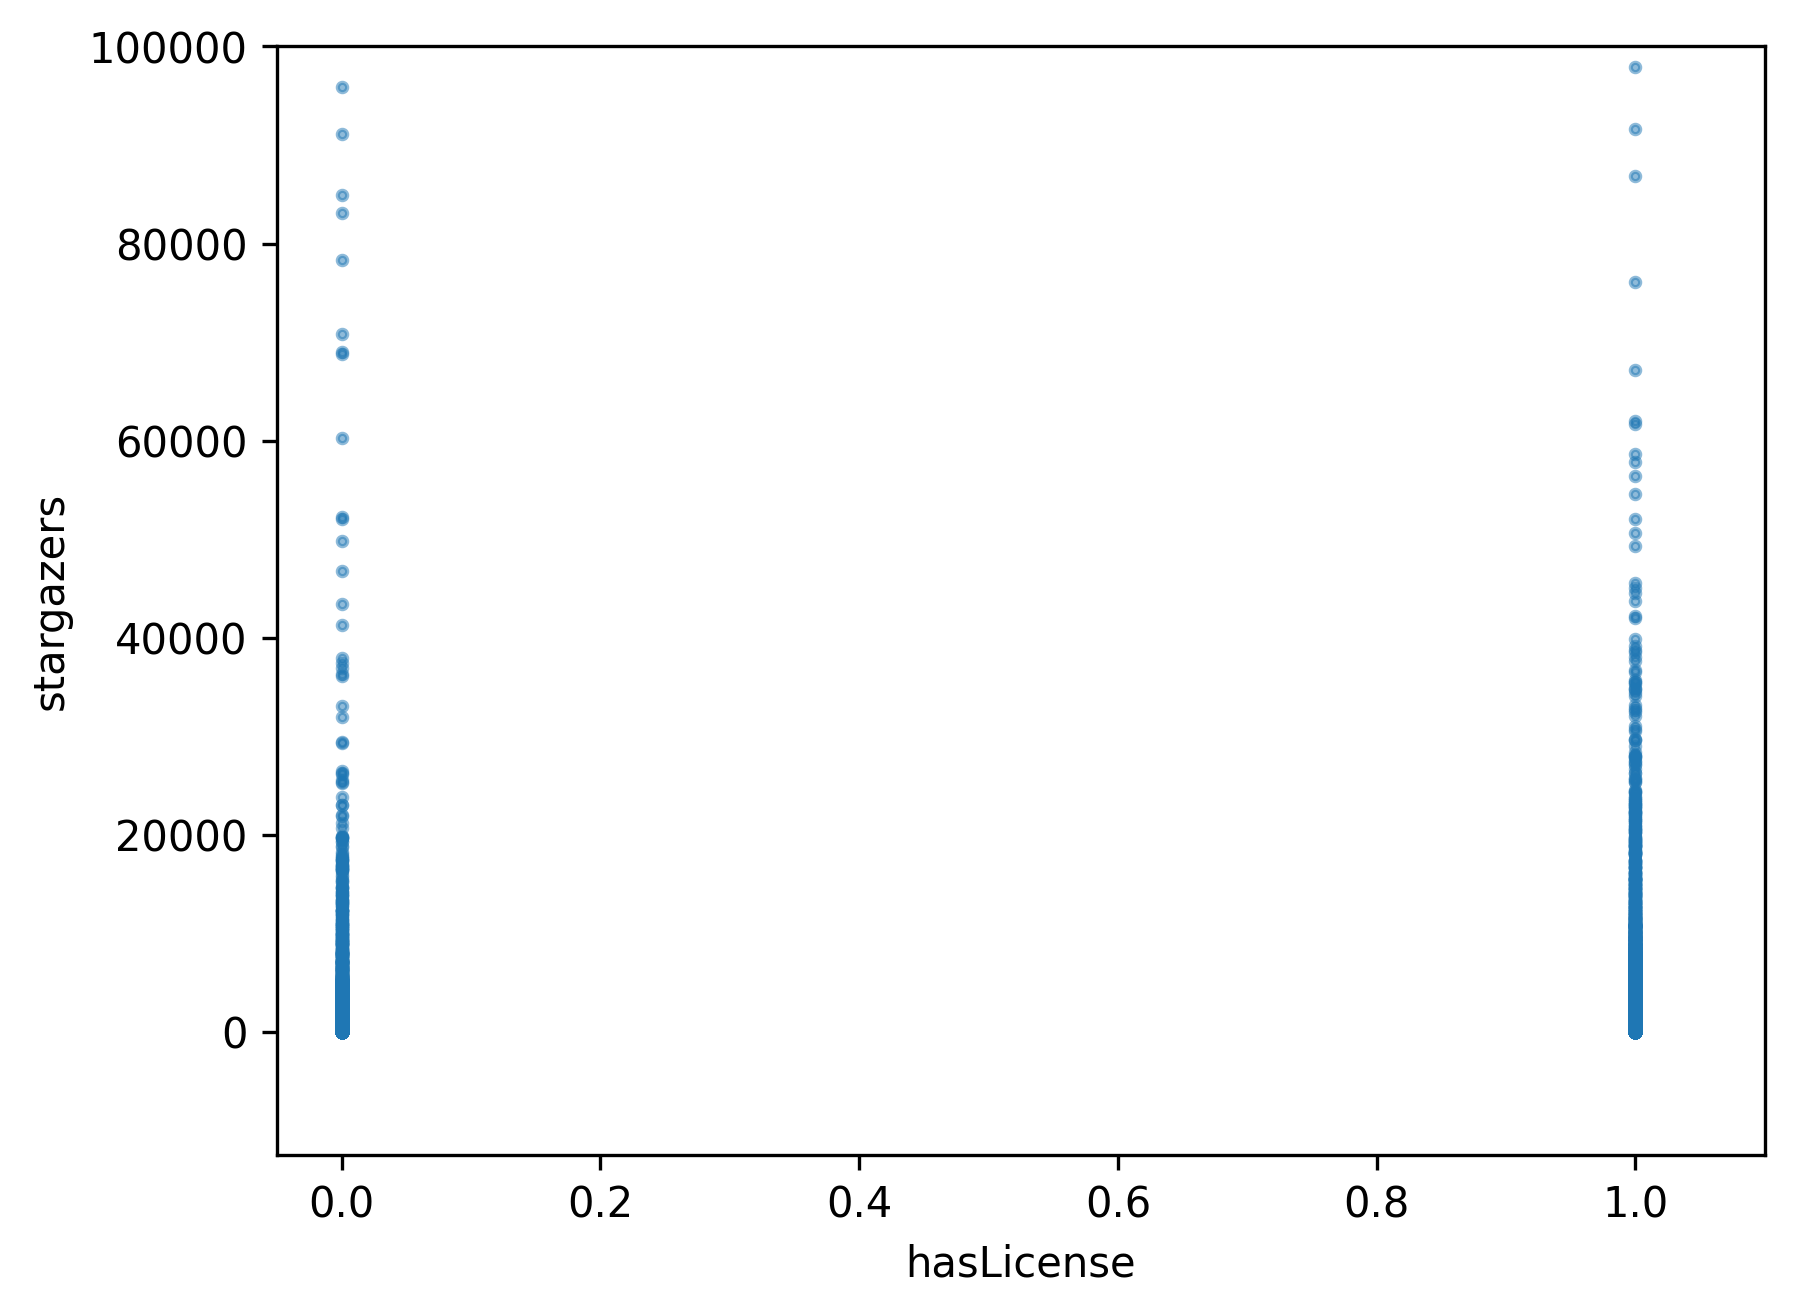
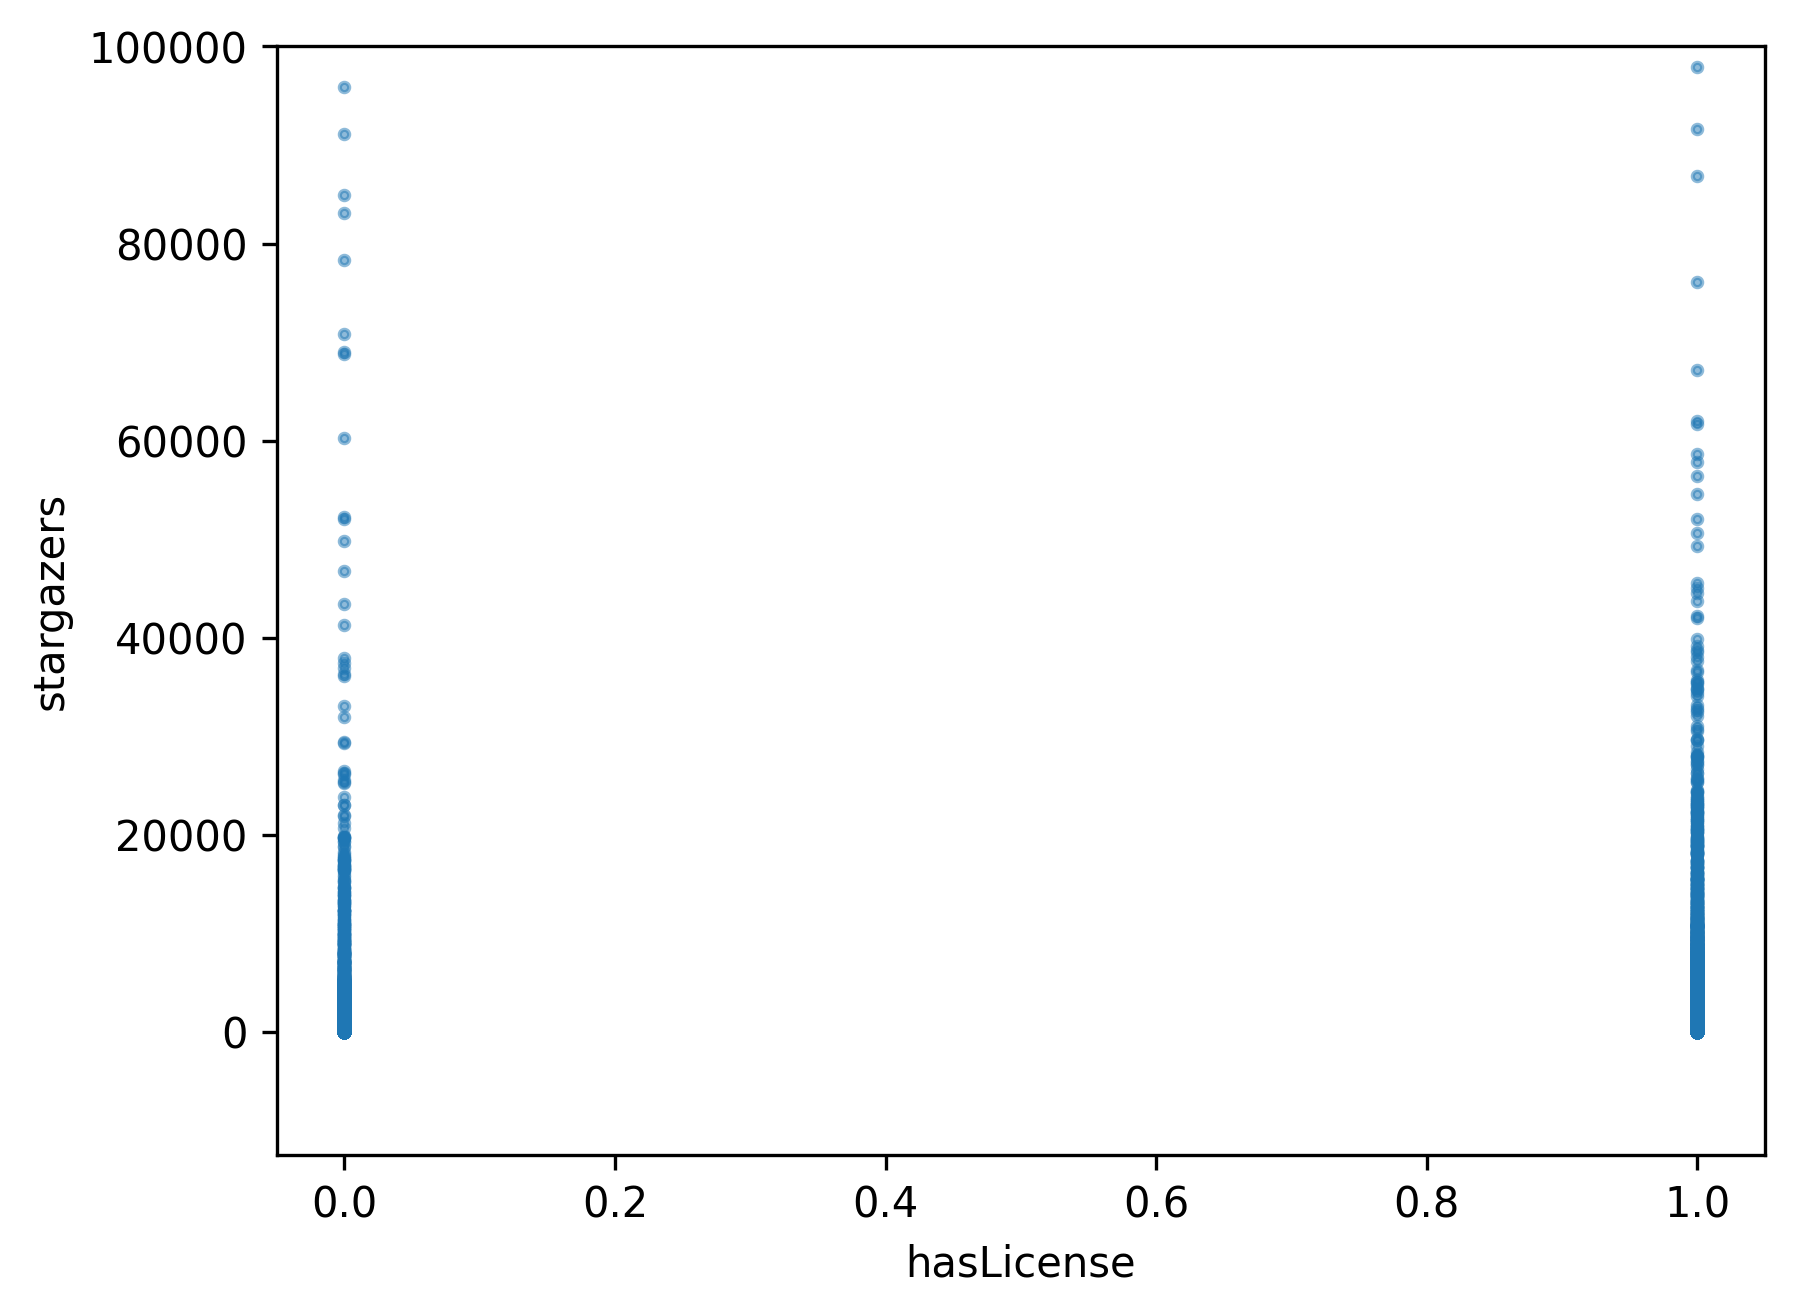
improve png axes

diff --git a/gitstar/models/feature_normalization_discover.py b/gitstar/models/feature_normalization_discover.py
@@ -34,10 +34,13 @@ def gen_hist(img_path, data, qtl=None):
 def gen_scatter(img_path, data, qtl=None):
     """Generate scatter plots of columns vs stargazers"""
     img_path.mkdir(parents=True, exist_ok=True)
-    for col in data.iloc[:, 1:]:
+    for col in data.iloc[:,1:]:
         ax = data.plot.scatter(x=col, y="stargazers", s=5, alpha=0.5)
         if qtl:
-            ax.set_xlim(right=1.1*data[col].quantile(qtl))
+            ax.set_xlim(left=data[col].min(), right=data[col].quantile(qtl))
+            ax.margins(x=0.05)
+            ax.autoscale(True)
+            # print("{}:".format(col)+str(1.1*data[col].quantile(qtl)))
         ax.set_ylim(top=100000)  # outlier 996.ICU
         fig = ax.get_figure()
         fig.savefig(
@@ -58,7 +61,7 @@ def main():
     #data = data[data["stargazers"] >= star_min]
     mypath = "full_qtl_80"
     qtl = 0.8
-    gen_hist(IMG_PATH/mypath, data, qtl=qtl)
+    #gen_hist(IMG_PATH/mypath, data, qtl=qtl)
     gen_scatter(IMG_PATH/mypath, data, qtl=qtl)
 
 
